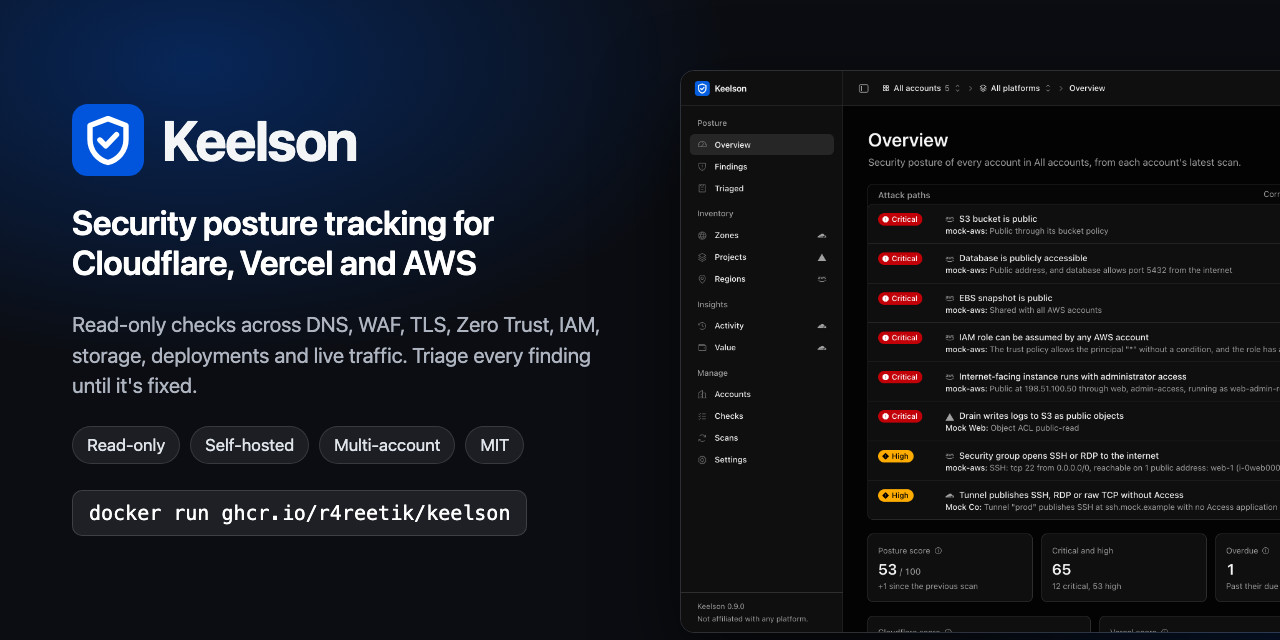
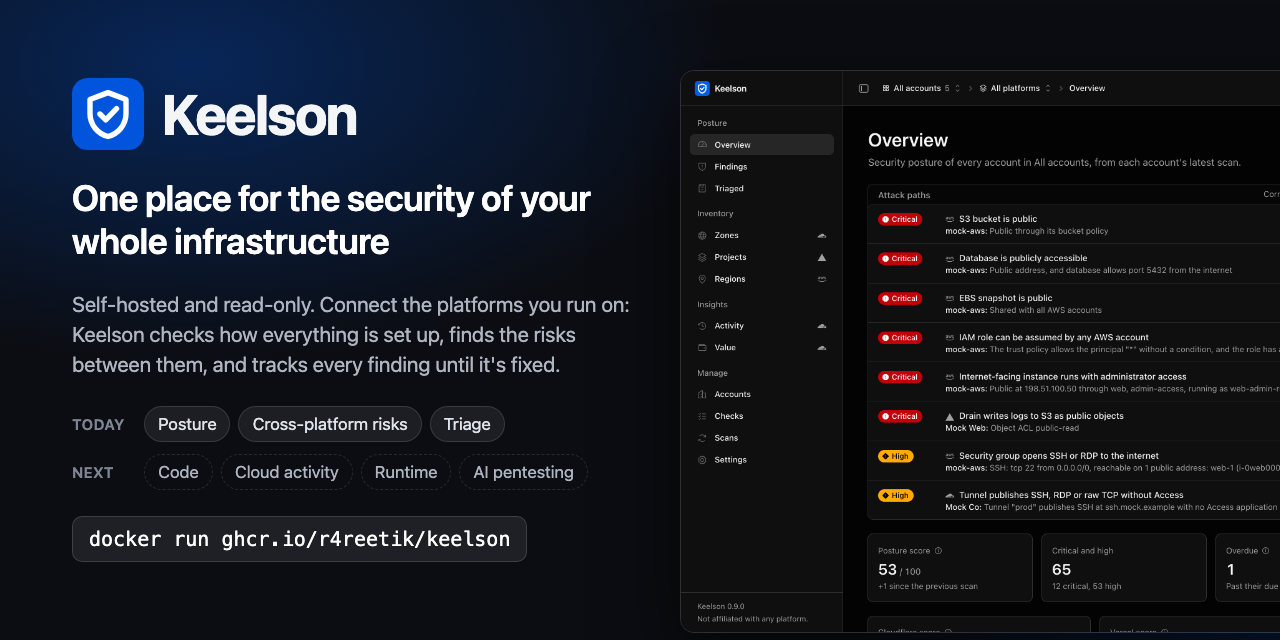
Fix the image so Node starts on Alpine, and describe Keelson without naming platforms

diff --git a/docs/images/social-preview.html b/docs/images/social-preview.html
@@ -8,18 +8,24 @@ body{width:1280px;height:640px;overflow:hidden;background:#0b0d12;color:#f4f5f7;
 .left{position:absolute;left:72px;top:0;bottom:0;width:560px;display:flex;flex-direction:column;justify-content:center;gap:26px}
 .brand{display:flex;align-items:center;gap:18px;font-size:56px;font-weight:700;letter-spacing:-1.5px}
 .brand svg{width:72px;height:72px}
-h2{font-size:34px;line-height:1.2;font-weight:600;letter-spacing:-.5px;color:#fff}
+h2{font-size:36px;line-height:1.2;font-weight:600;letter-spacing:-.5px;color:#fff}
 p{font-size:21px;line-height:1.45;color:#aeb4c0}
-.pills{display:flex;flex-wrap:wrap;gap:10px}
-.pill{font-size:17px;padding:8px 14px;border-radius:999px;background:rgba(255,255,255,.07);border:1px solid rgba(255,255,255,.12);color:#dfe3ea}
+.rows{display:flex;flex-direction:column;gap:12px}
+.row{display:flex;flex-wrap:wrap;align-items:center;gap:8px}
+.label{width:64px;font-size:15px;font-weight:600;letter-spacing:.4px;text-transform:uppercase;color:#7d8594}
+.pill{font-size:17px;padding:7px 13px;border-radius:999px;background:rgba(255,255,255,.07);border:1px solid rgba(255,255,255,.12);color:#dfe3ea}
+.pill.next{background:transparent;border-style:dashed;color:#aeb4c0}
 code{font-family:ui-monospace,Menlo,monospace;font-size:20px;background:rgba(255,255,255,.08);border:1px solid rgba(255,255,255,.14);padding:10px 16px;border-radius:10px;color:#fff;align-self:flex-start}
 .shot{position:absolute;left:680px;top:70px;width:900px;border-radius:14px;border:1px solid rgba(255,255,255,.14);box-shadow:0 30px 80px rgba(0,0,0,.6)}
 </style></head><body><div class="glow"></div>
 <img class="shot" src="overview-dark.png" alt="">
 <div class="left">
  <div class="brand"><svg viewBox="0 0 32 32" aria-hidden="true"><rect width="32" height="32" rx="7" fill="#0055dc"/><path d="M16 6.5 8 9.6v6.2c0 5 3.4 9 8 10.2 4.6-1.2 8-5.2 8-10.2V9.6z" fill="none" stroke="#fff" stroke-width="2.4" stroke-linejoin="round"/><path d="m12.4 16 2.6 2.6 4.8-5" fill="none" stroke="#fff" stroke-width="2.4" stroke-linecap="round" stroke-linejoin="round"/></svg>Keelson</div>
- <h2>Security posture tracking for Cloudflare, Vercel and AWS</h2>
- <p>Read-only checks across DNS, WAF, TLS, Zero Trust, IAM, storage, deployments and live traffic. Triage every finding until it's fixed.</p>
- <div class="pills"><span class="pill">Read-only</span><span class="pill">Self-hosted</span><span class="pill">Multi-account</span><span class="pill">MIT</span></div>
+ <h2>One place for the security of your whole infrastructure</h2>
+ <p>Self-hosted and read-only. Connect the platforms you run on: Keelson checks how everything is set up, finds the risks between them, and tracks every finding until it's fixed.</p>
+ <div class="rows">
+  <div class="row"><span class="label">Today</span><span class="pill">Posture</span><span class="pill">Cross-platform risks</span><span class="pill">Triage</span></div>
+  <div class="row"><span class="label">Next</span><span class="pill next">Code</span><span class="pill next">Cloud activity</span><span class="pill next">Runtime</span><span class="pill next">AI pentesting</span></div>
+ </div>
  <code>docker run ghcr.io/r4reetik/keelson</code>
 </div></body></html>

diff --git a/test/env.test.ts b/test/env.test.ts
@@ -46,6 +46,13 @@ describe("the image, the only way Keelson ships", () => {
     assert.match(read("Dockerfile"), /adduser -u 1000 /);
   });
 
+  test("the image installs every library Node's own Alpine image does, and checks the binary starts", () => {
+    // Without libatomic, Node 26 can't load and the container exits at once (CI caught it).
+    const dockerfile = read("Dockerfile");
+    assert.match(dockerfile, /apk add --no-cache libatomic libstdc\+\+/);
+    assert.match(dockerfile, /RUN node --version/);
+  });
+
   test("runtime dependencies are plain JavaScript, since the image's build stage runs on the build machine's platform", () => {
     const deps = Object.keys(JSON.parse(read("package.json")).dependencies);
     for (const dep of deps) {

diff --git a/AGENTS.md b/AGENTS.md
@@ -86,7 +86,7 @@ These are never broken. A test enforces most of them.
 ## Node.js, the image and tooling
 
 - **Keelson ships only as a Docker image** on GHCR, for `linux/amd64` and `linux/arm64`. Nothing is published to npm: package.json is `private`, and `test/env.test.ts` fails if the release workflow publishes to npm. Docs and the in-app upgrade steps describe the image and its release-line tag; running from a clone (`npm start`) is for development and gets `git checkout` steps.
-- **The image stays small.** Its final stage is Alpine with only the Node.js binary copied from `node:26-alpine` and libstdc++ from Alpine: no npm, Yarn or Corepack, which also keeps their dependencies out of image scans. Keep the two Alpine versions in the Dockerfile equal. The build stage runs on the build machine's platform, so runtime dependencies must be plain JavaScript (tested). CI fails when the image passes 200 MB, contains npm, or doesn't run as uid 1000 (the uid earlier images used, so `/data` volumes stay readable). Weigh any new runtime dependency or OS package against that.
+- **The image stays small.** Its final stage is Alpine with only the Node.js binary copied from `node:26-alpine` and the libraries Node's own Alpine image installs for it (libatomic and libstdc++; the build runs `node --version` to catch a missing one): no npm, Yarn or Corepack, which also keeps their dependencies out of image scans. Keep the two Alpine versions in the Dockerfile equal. The build stage runs on the build machine's platform, so runtime dependencies must be plain JavaScript (tested). CI fails when the image passes 200 MB, contains npm, or doesn't run as uid 1000 (the uid earlier images used, so `/data` volumes stay readable). Weigh any new runtime dependency or OS package against that.
 - **Node.js 26 LTS only.** The minimum is 26.13.0, the first Node 26 LTS release. `NODE_MAJOR` and `MIN_NODE` in `src/node-check.ts` are the source of truth, and `engines` in package.json says the same (tested). `.nvmrc` says `26`, the image runs `node:26-alpine`'s binary, and CI tests on 26. `src/bin.ts` runs `checkNode` before importing anything else, so a clone run on an older Node.js prints the upgrade command for the user's Node manager (nvm, fnm, Volta, Homebrew, winget). `src/node-check.ts` imports nothing, so it runs on old Node.js; don't add imports to it.
 - Biome 2.6 is used for both lint and format (`biome.json`: 2 spaces, 160 columns, double quotes, trailing commas). TypeScript runs with type stripping, so use `.ts` extensions in imports and no enums or namespaces.
 - Dependabot ignores major updates of `@types/node` and the Docker `node` images (`.github/dependabot.yml`). Those move together with `NODE_MAJOR`, by hand.
@@ -130,6 +130,7 @@ The UI follows **Cloudflare's design language** using Kumo (`@cloudflare/kumo`),
 
 The same rules apply to UI copy, docs, changelog and commit messages:
 
+- **Describe Keelson by where it is going, and never claim what isn't built.** The one-line description is "One place for the security of your whole infrastructure", with what it does today said in general terms ("checks your cloud, edge and hosting platforms") and anything planned marked as next. Descriptions never name platforms; the README body and docs list them. It is used in the README, the GitHub description, the image label, package.json and the social card (`docs/images/social-preview.html`).
 - **Plain, specific English** for someone running Keelson, not a reviewer. Say what happens and what to do. Write sentences, and avoid jargon and marketing.
 - **UI copy** names the thing the user sees. Error messages say what's wrong and the fix ("Mock Group already exists. Pick another name.").
 - **Commit messages:** one imperative line that says what changed for the user (for example "Run scan scans the selected account, with a menu for the entity or every account"). No AI attribution or co-author trailers.
@@ -182,6 +183,7 @@ Preferences the maintainer stated, which apply only in the maintainer's sessions
 
 Newest first. One line each: the date, the decision, and why. When a decision is reversed, mark the old line "Superseded" and point to the new one.
 
+- 2026-11-13: Keelson is described as one place for the security of your whole infrastructure, without naming platforms: what it does today in general terms, and code, cloud activity, runtime and AI pentesting marked as next. *Why:* the maintainer wants the description to show the global picture rather than a list of today's platforms; marking what is next keeps it true.
 - 2026-11-13: All support for the old name Edgewatch is removed before 0.10 ships: `EDGEWATCH_*` variables, `~/.edgewatch`, `edgewatch.db`, the old browser storage keys and the `edgewatch` image are no longer read or published, and an Edgewatch installation starts fresh. `test/env.test.ts` fails if the old name appears anywhere but the changelog, this log and a shipped migration. *Why:* only one or two people ran Edgewatch, and the maintainer chose a clean start over carrying fallbacks. Supersedes the compatibility in the 2026-11-12 rename line.
 - 2026-11-13: Keelson ships only as a Docker image on GHCR; nothing is published to npm, under either name, from 0.10. The image is Alpine with only the Node.js binary (no npm), built on the build machine's platform, with a size budget in CI. Running from a clone is for development. *Why:* the maintainer wants one way to run it that works the same everywhere, especially as Keelson starts to bundle other open-source scanners (Syft, Grype and the like), and a small image with fewer packages in it. Supersedes the npx distribution (2026-11-05), the wide `engines` range (2026-11-06) and the `edgewatch` npm package (2026-11-12).
 - 2026-11-12: The nautical theme is used for module names and brand touches, each with a plain description beside it; platform, entity, account, location, check and finding stay plain. *Why:* the maintainer wants the theme to make Keelson stand out, but the people who read findings in an incident or an audit, or in a forwarded alert, shouldn't need a glossary, and the usual terms match each platform's own docs.

diff --git a/README.md b/README.md
@@ -5,8 +5,8 @@
 <h1 align="center">Keelson</h1>
 
 <p align="center">
-  <strong>Security posture tracking for Cloudflare, Vercel and AWS.</strong><br>
-  Read-only checks across DNS, WAF, TLS, Zero Trust, email, live traffic, deployments, secrets, IAM, storage and networks, and a place to triage every finding until it's fixed.<br>
+  <strong>One place for the security of your whole infrastructure.</strong><br>
+  Self-hosted and read-only. Connect the cloud, edge and hosting platforms you run on: Keelson checks how everything is set up, finds the risks between them, and tracks every finding until it's fixed. Code, cloud activity and runtime are next.
 </p>
 
 <p align="center">
@@ -34,8 +34,11 @@ Point Keelson at your Cloudflare accounts, your Vercel teams, your AWS accounts,
 scans them (one, or dozens across several companies), scores them, and tracks every finding until it's fixed:
 who owns it, when it's due, and which risks were accepted and until when. It runs on your machine or your
 server, and only ever reads. Use it for one platform or several: a company's accounts on every platform sit
-together in one entity, and checks that span platforms catch what no single dashboard shows. More platforms
-are planned.
+together in one entity, and checks that span platforms catch what no single dashboard shows.
+
+Keelson is growing into one place for the security of everything you run: next come your code (GitHub
+repositories), where that code is deployed and who can reach it, cloud activity such as CloudTrail and VPC flow
+logs, runtime security, and an AI penetration tester that works from all of it. See the [roadmap](#roadmap).
 
 > Keelson is an independent open-source project, not affiliated with or endorsed by Cloudflare, Vercel or AWS.
 > Its interface is built with [Kumo](https://github.com/cloudflare/kumo), Cloudflare's open-source design system.
@@ -333,8 +336,21 @@ Wrong findings are the most useful bug reports we get.
 
 ## Roadmap
 
-Alerts before accepted risks expire, comments on findings, ticketing integrations (Jira, Linear, GitHub
-Issues) and saved views are next. Ideas and votes are welcome in
+Next, in the tracker you use today: alerts before accepted risks expire, comments on findings, ticketing
+integrations (Jira, Linear, GitHub Issues), saved views, and more platforms (Google Cloud, Google Workspace).
+
+Further out, Keelson grows beyond configuration, keeping the same rules: self-hosted, and read-only unless you
+explicitly allow more:
+
+- **Code:** connect GitHub repositories and scan them for vulnerable dependencies, secrets and risky
+  configuration, without running any of their code.
+- **Deployments and exposure:** map which code runs where, and what can reach it from the internet.
+- **Cloud activity:** read CloudTrail, VPC flow logs and similar records to see what actually happened.
+- **Runtime:** watch running workloads.
+- **AI penetration testing:** an AI tester that uses everything above to test your systems from the inside
+  (white box) or, with your permission and scope, from outside (black box).
+
+None of these exist yet. Ideas and votes are welcome in
 [Discussions](https://github.com/r4reetik/keelson/discussions).
 
 ## Contributing
